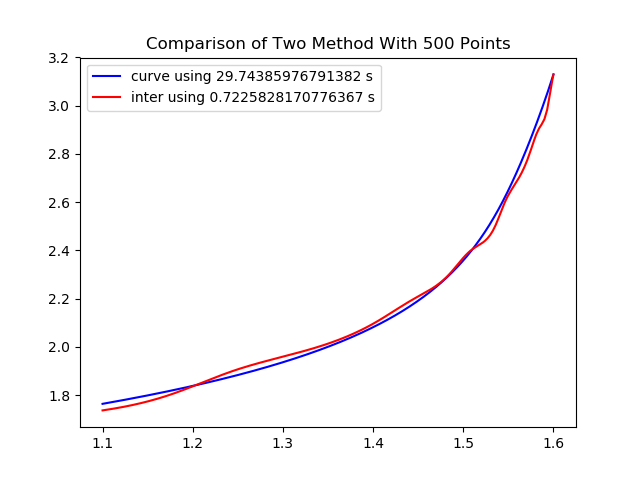
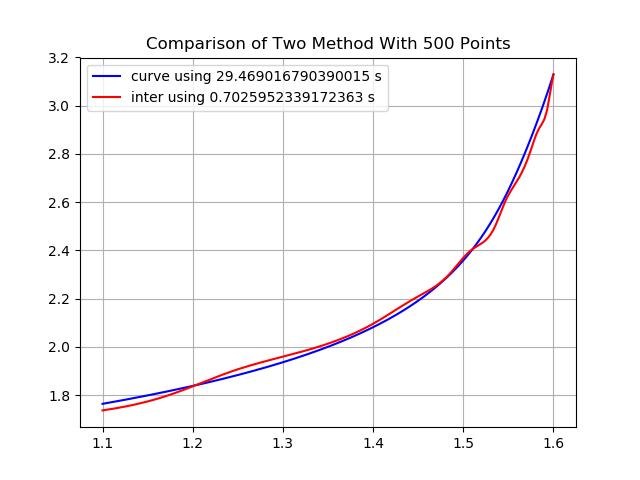
retry submit

diff --git a/src/utils.py b/src/utils.py
@@ -273,6 +273,7 @@ def comp_curve_inter(issave=False,path=".//figure//comparison.png"):
     plt.plot(voltages, distance_curve, "b", label="curve using {} s".format(end_0 - start_0))
     plt.plot(voltages, distance_inter, "r", label="inter using {} s".format(end_1 - end_0))
     plt.legend()
+    plt.grid()
     if issave:
         plt.savefig(path)
     plt.show()
@@ -284,7 +285,7 @@ def comp_curve_inter(issave=False,path=".//figure//comparison.png"):
 '''-----------------------------------------------------------------------------------------'''
 
 if __name__ == "__main__":
-    
+
     comp_curve_inter(issave=True,path="..//figure//cop.png")
 
     """
